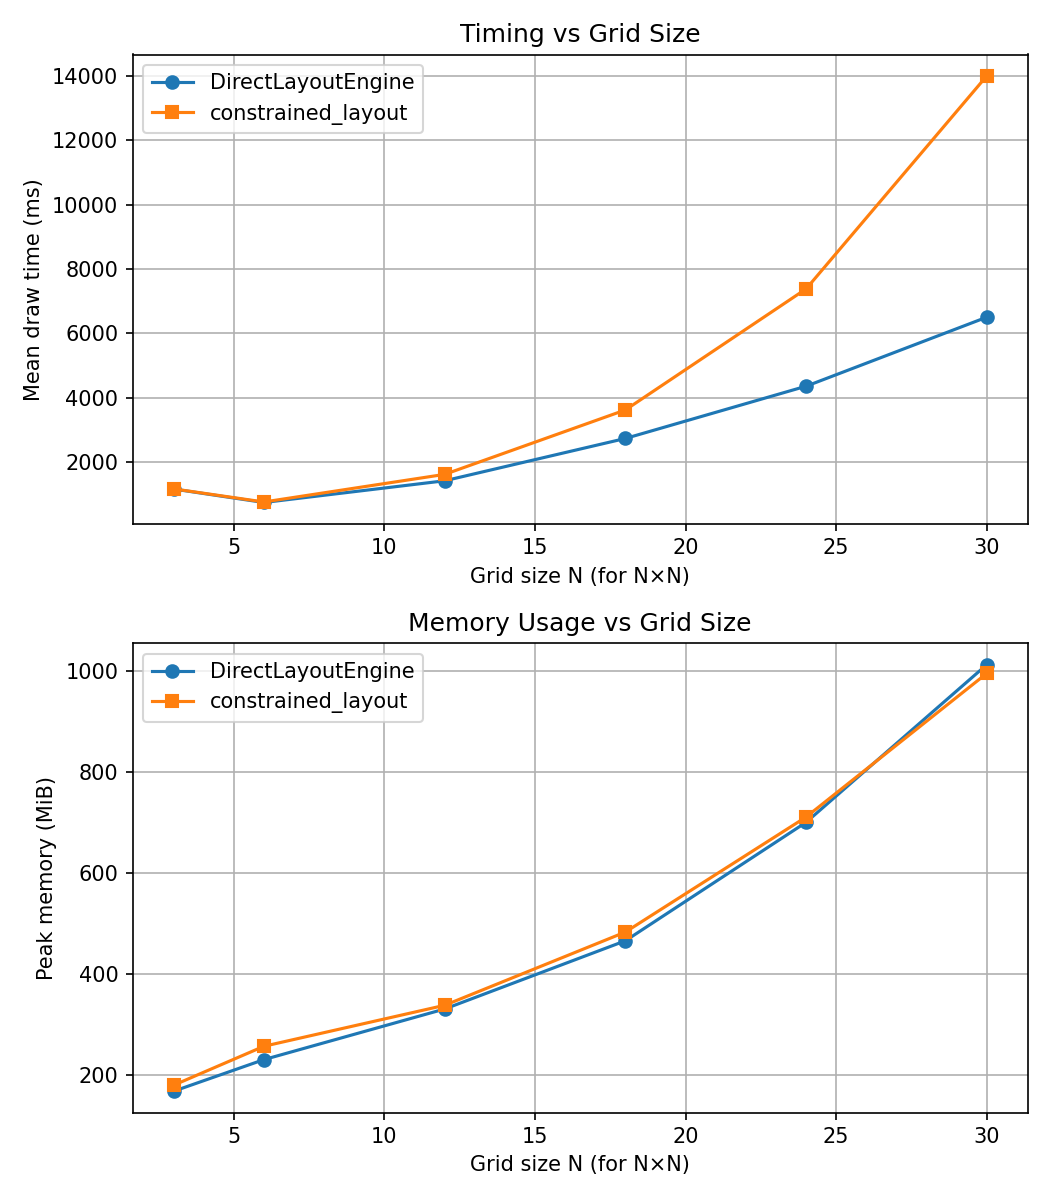
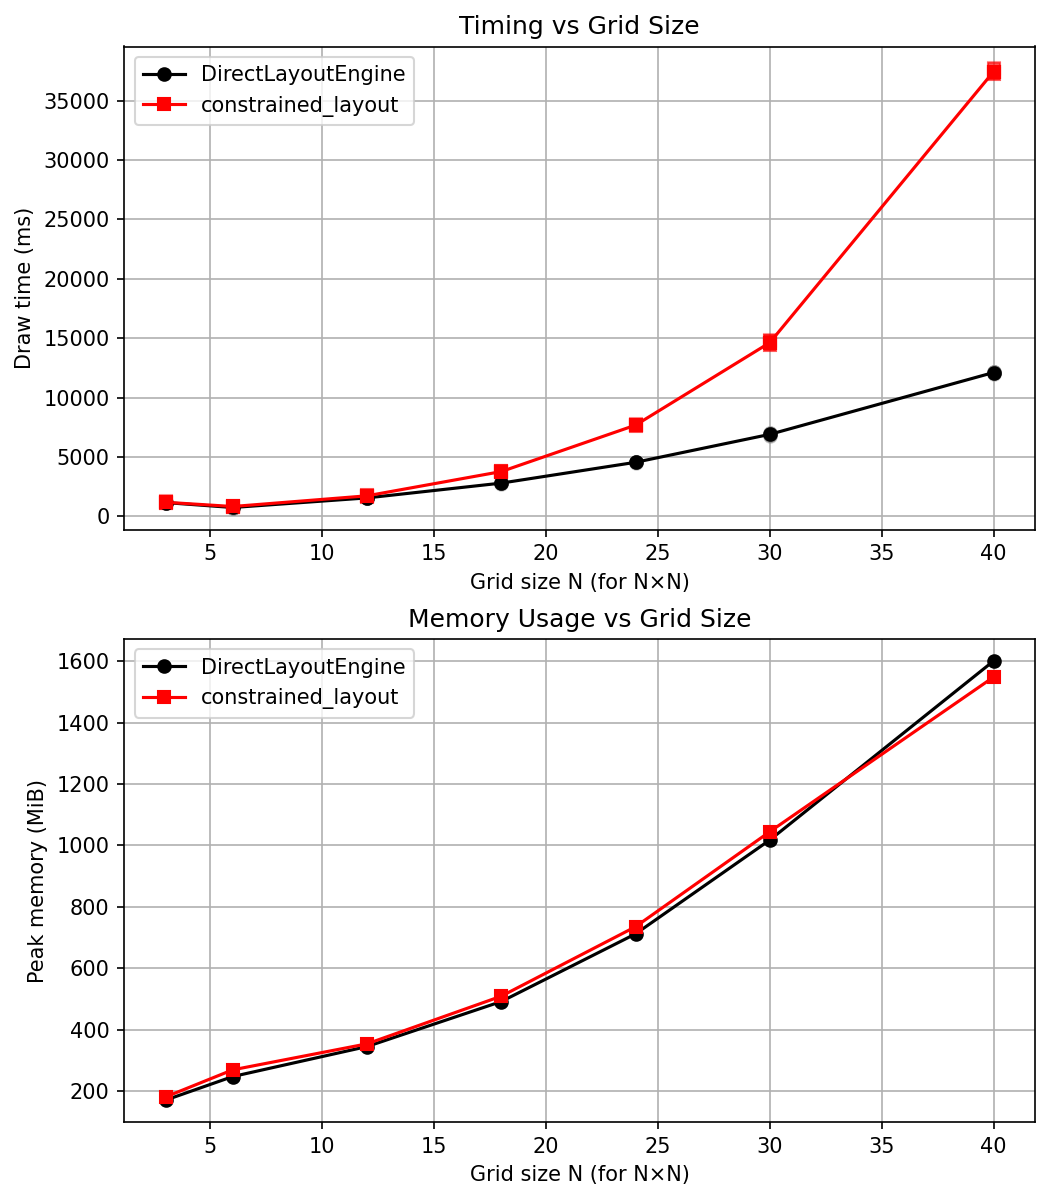
FIX: timing for layout

diff --git a/benchmark_simple.py b/benchmark_simple.py
@@ -28,11 +28,14 @@ if __name__ == '__main__':
     print("Speed comparison: DirectLayoutEngine vs constrained_layout")
     print("=" * 70)
 
-    grid_sizes = [3, 6, 12, 18, 24, 30]
+    grid_sizes = [3, 6, 12, 18, 24, 30, 40]
+    n_repeats = 7
     direct_means = []
     direct_mems = []
+    direct_all_times = []
     constrained_means = []
     constrained_mems = []
+    constrained_all_times = []
 
     for n in grid_sizes:
         print(f"\n{n}×{n} grid:")
@@ -44,22 +47,24 @@ if __name__ == '__main__':
         time_single_layout('constrained', n, n)
         print(" done")
 
-        # Time direct layout (5 runs)
-        print("  Timing direct (5 runs)...", end='', flush=True)
-        direct_results = [time_single_layout('direct', n, n) for _ in range(5)]
+        # Time direct layout (n_repeats runs)
+        print(f"  Timing direct ({n_repeats} runs)...", end='', flush=True)
+        direct_results = [time_single_layout('direct', n, n) for _ in range(n_repeats)]
         direct_times = [r[0] for r in direct_results]
         direct_mem = max(r[1] for r in direct_results)
         direct_means.append(np.mean(direct_times))
         direct_mems.append(direct_mem)
+        direct_all_times.append(direct_times)
         print(" done")
 
-        # Time constrained layout (5 runs)
-        print("  Timing constrained (5 runs)...", end='', flush=True)
-        constrained_results = [time_single_layout('constrained', n, n) for _ in range(5)]
+        # Time constrained layout (n_repeats runs)
+        print(f"  Timing constrained ({n_repeats} runs)...", end='', flush=True)
+        constrained_results = [time_single_layout('constrained', n, n) for _ in range(n_repeats)]
         constrained_times = [r[0] for r in constrained_results]
         constrained_mem = max(r[1] for r in constrained_results)
         constrained_means.append(np.mean(constrained_times))
         constrained_mems.append(constrained_mem)
+        constrained_all_times.append(constrained_times)
         print(" done")
 
         print(f"  direct:       {direct_means[-1]*1000:.1f} ms, {direct_mems[-1]:.1f} MiB peak")
@@ -69,24 +74,28 @@ if __name__ == '__main__':
     print("\n" + "=" * 70)
 
     # Plot timing and memory trends
-    fig, (ax1, ax2) = plt.subplots(2, 1, figsize=(7, 8))
-    ax1.plot(grid_sizes, np.array(direct_means)*1000, 'o-', label='DirectLayoutEngine')
-    ax1.plot(grid_sizes, np.array(constrained_means)*1000, 's-', label='constrained_layout')
-    ax1.set_ylabel('Mean draw time (ms)')
+    fig, (ax1, ax2) = plt.subplots(2, 1, figsize=(7, 8), layout='direct')
+    # Plot all individual timings as faint dots
+    for i, n in enumerate(grid_sizes):
+        ax1.plot([n]*n_repeats, np.array(direct_all_times[i])*1000, 'o', color='gray', alpha=0.4)
+        ax1.plot([n]*n_repeats, np.array(constrained_all_times[i])*1000, 's', color='red', alpha=0.4)
+    # Overlay means
+    ax1.plot(grid_sizes, np.array(direct_means)*1000, 'o-', label='DirectLayoutEngine', color='black')
+    ax1.plot(grid_sizes, np.array(constrained_means)*1000, 's-', label='constrained_layout', color='red')
+    ax1.set_ylabel('Draw time (ms)')
     ax1.set_xlabel('Grid size N (for N×N)')
     ax1.set_title('Timing vs Grid Size')
     ax1.legend()
     ax1.grid(True)
 
-    ax2.plot(grid_sizes, direct_mems, 'o-', label='DirectLayoutEngine')
-    ax2.plot(grid_sizes, constrained_mems, 's-', label='constrained_layout')
+    ax2.plot(grid_sizes, direct_mems, 'o-', label='DirectLayoutEngine', color='black')
+    ax2.plot(grid_sizes, constrained_mems, 's-', label='constrained_layout', color='red')
     ax2.set_ylabel('Peak memory (MiB)')
     ax2.set_xlabel('Grid size N (for N×N)')
     ax2.set_title('Memory Usage vs Grid Size')
     ax2.legend()
     ax2.grid(True)
 
-    plt.tight_layout()
     plt.savefig('benchmark_timing_memory.png', dpi=150)
 
     # Save a caption with system info
